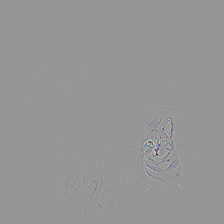
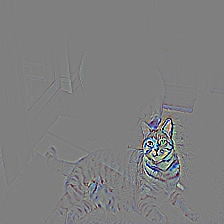
changed image min-max standardization to mean-std-clip for better visuals

diff --git a/GradCAM.py b/GradCAM.py
@@ -151,12 +151,15 @@ class GradCAM():
             if guided:
                 print('self.guidedGrads.shape =',self.guidedGrads.shape)
 
+        # determine shape of new tensor
         if guided:
             resizedGradCAMs = np.zeros((self.gradCAMs.shape[0],self.gradCAMs.shape[1],3,x.shape[-2],x.shape[-1]))
         else:
             resizedGradCAMs = np.zeros((self.gradCAMs.shape[0],self.gradCAMs.shape[1],x.shape[-2],x.shape[-1]))
-        for i in range(self.gradCAMs.shape[0]):
-            for j in range(self.gradCAMs.shape[1]):
+
+        # fill out resizedGradCAMs
+        for i in range(self.gradCAMs.shape[0]): # batch
+            for j in range(self.gradCAMs.shape[1]): # class
                 resizedcam = cv2.resize(self.gradCAMs[i][j],(x.shape[-2],x.shape[-1]))
                 if guided:
                     resizedGradCAMs[i][j] = resizedcam.reshape(1,*resizedcam.shape) * self.guidedGrads[i][j]
@@ -433,9 +436,21 @@ if __name__ == '__main__':
             mask = (mask - np.min(mask)) / np.max(mask)
         if g:
             mask = mask.transpose(1,2,0)
+            plt.hist(mask.flatten(),bins=100)
+            plt.show()
+            mask = mask - mask.mean()
+            mask = mask / mask.std()
+            mask = mask*0.1 + 0.5
+            mask = mask.clip(0,1)
+
             ggrads = GC.guidedGrads[0][i].transpose(1,2,0)
-            ggrads = ggrads - ggrads.min()
-            ggrads = ggrads / ggrads.max()
+            ggrads = ggrads - ggrads.mean()
+            ggrads = ggrads / (ggrads.std() + 1e-5)
+            ggrads = ggrads*0.1
+            ggrads = ggrads + 0.5
+            # ggrads = np.clip(ggrads,0,1)
+            ggrads = ggrads.clip(0,1)
+
             cv2.imwrite(filename='examples/guided_backprop_class_{}.jpg'.format(classes[i]),img=np.uint8(ggrads*255))
             cv2.imwrite(filename='examples/guided_gradcam_class_{}.jpg'.format(classes[i]),img=np.uint8(mask*255))
         else:
